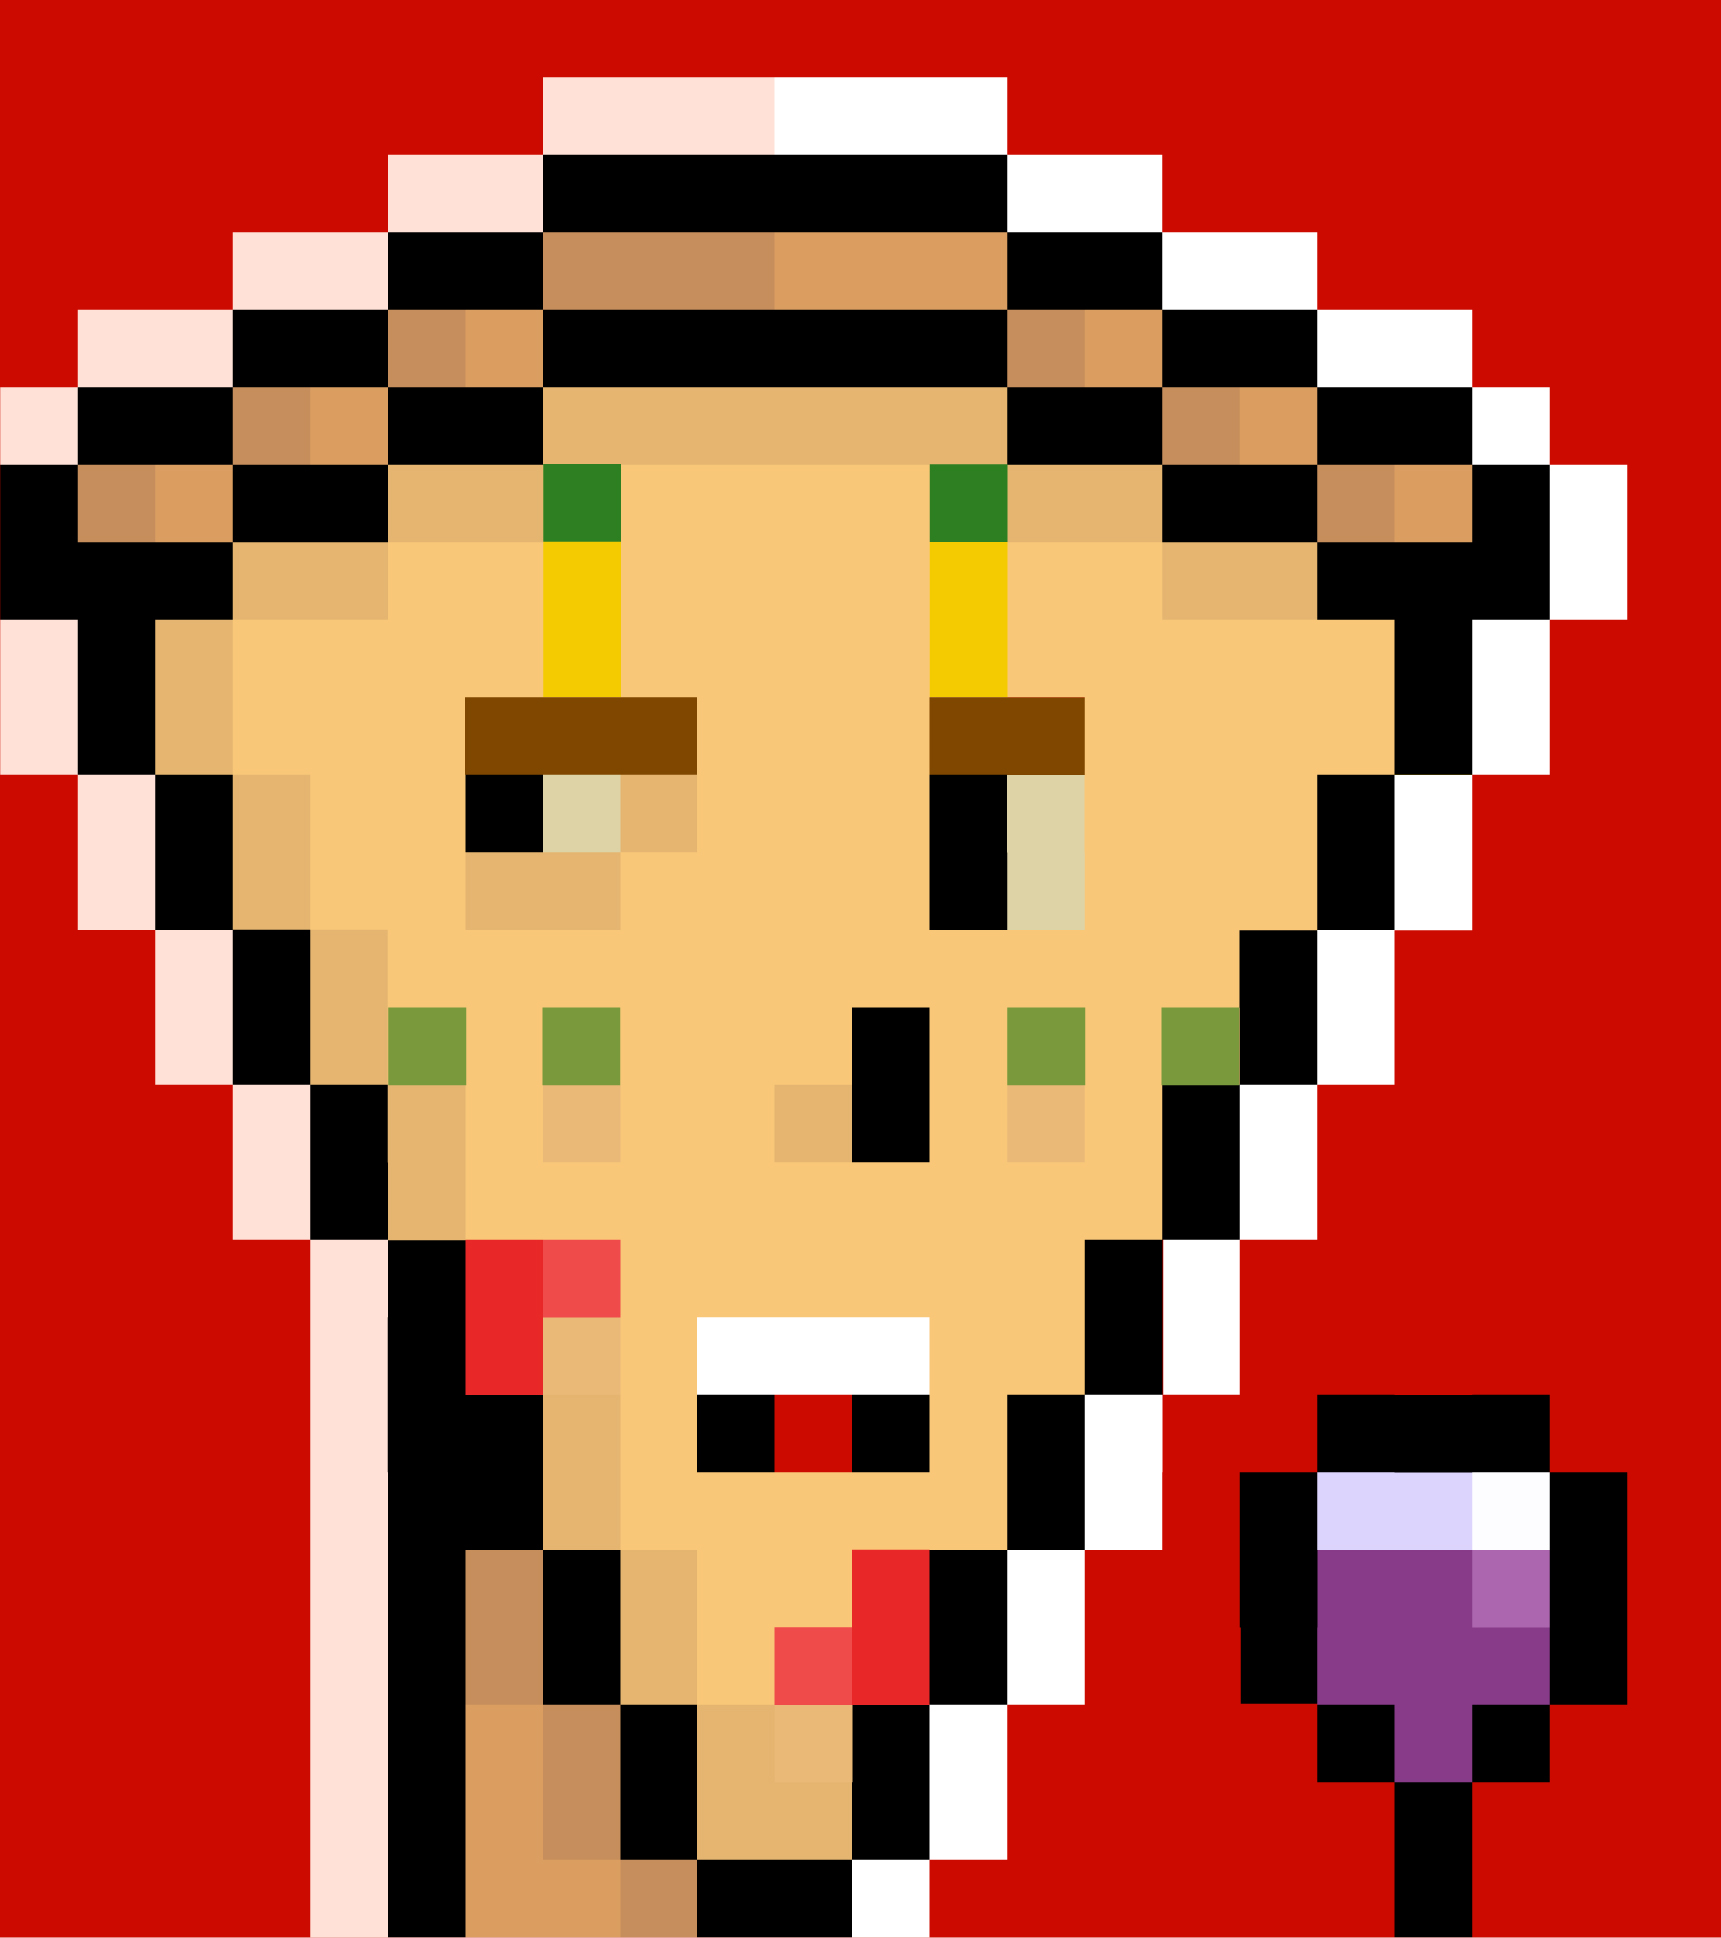
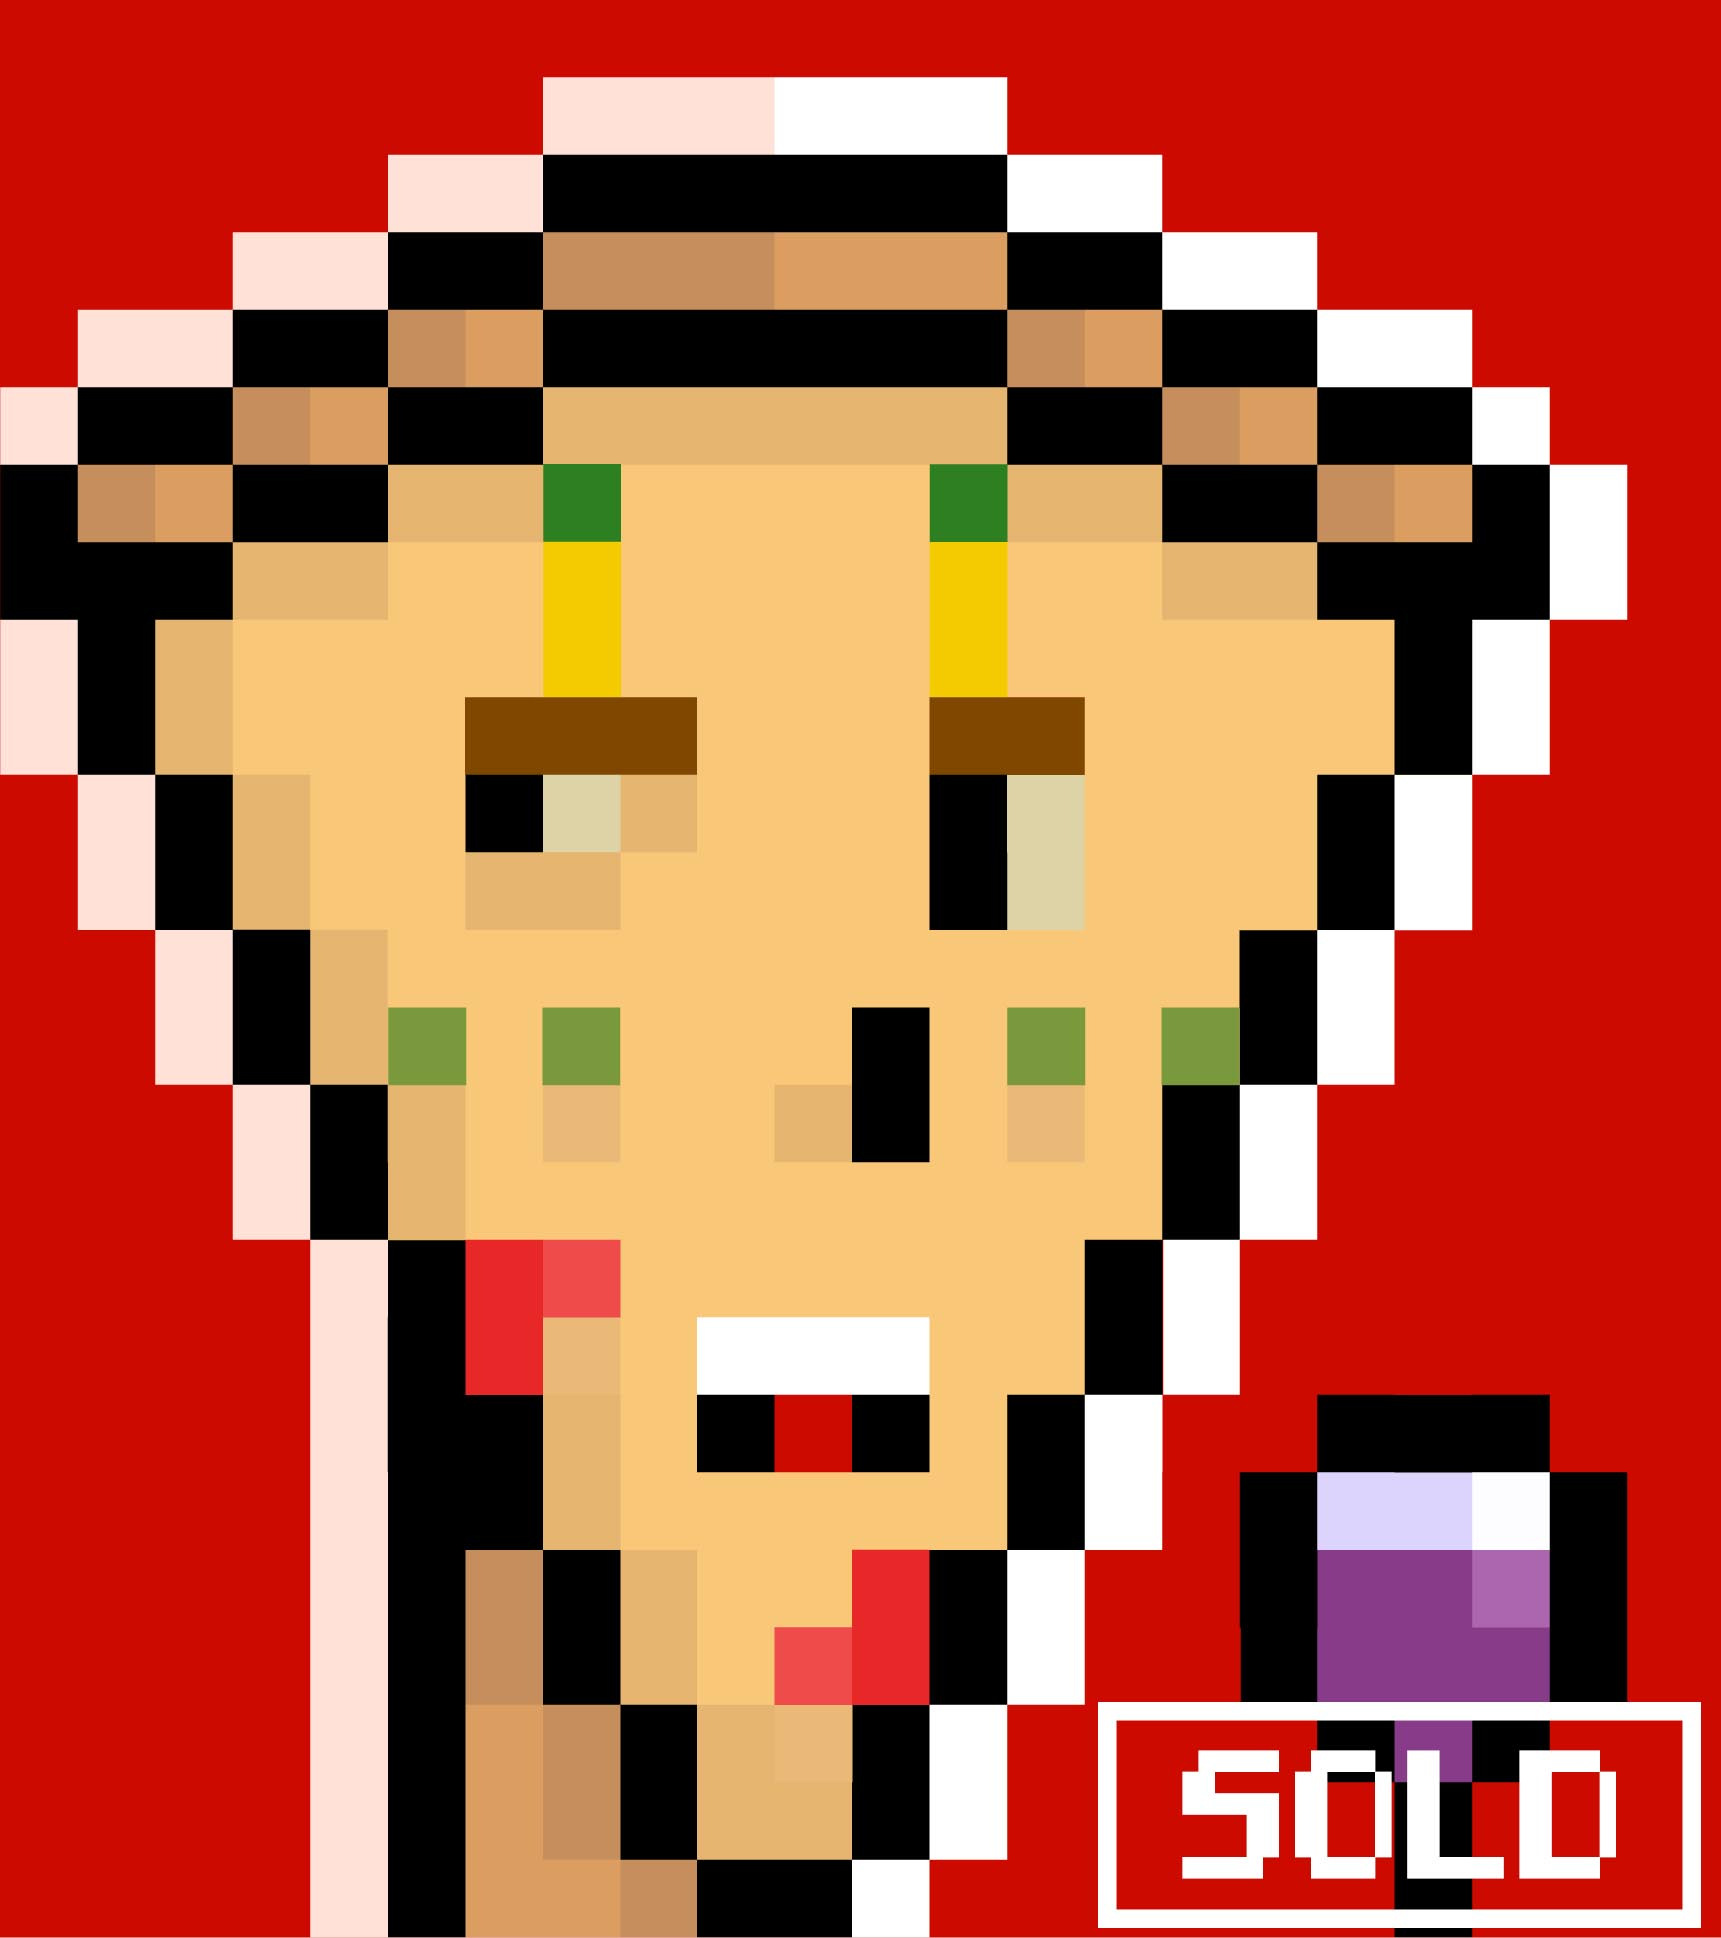
sold

Changed region(s): [[0.5543, 0.8669, 1.0, 1.0], [0.0, 0.9907, 0.154, 1.0]]

diff --git a/pizzapunks.html b/pizzapunks.html
@@ -62,10 +62,10 @@
 					<div class="has-box image-container">
 						<div class="image-container">
 							<img alt="Bootstrap Image Preview" src="img/pps/9.jpg" >
-							<img alt="Bootstrap Image Preview" src="img/pps/4.jpg" >
+							<img alt="Bootstrap Image Preview" src="img/pps/4_4.jpg" >
 							<img alt="Bootstrap Image Preview" src="img/pps/10.jpg" >
-							<img alt="Bootstrap Image Preview" src="img/pps/5.jpg" >
-							<img alt="Bootstrap Image Preview" src="img/pps/1.jpg" >
+							<img alt="Bootstrap Image Preview" src="img/pps/5_5.jpg" >
+							<img alt="Bootstrap Image Preview" src="img/pps/1_1.jpg" >
 					</div>
 				</div>
 				<div class="row">
@@ -87,7 +87,7 @@
 								<div class="card-body has-box ">
 									<div class="image-container">
 										<div class="row">
-											<img alt="Bootstrap Image Preview" src="img/pps/1.jpg">
+											<img id="sold" alt="Bootstrap Image Preview" src="img/pps/1.jpg">
 											<img alt="Bootstrap Image Preview" src="img/pps/2.jpg">
 											<img alt="Bootstrap Image Preview" src="img/pps/3.jpg">
 											<img alt="Bootstrap Image Preview" src="img/pps/4.jpg">
@@ -592,7 +592,7 @@
 				<div class="col-md-2"></div>
 				<div class="col-md-8 has-box">					
 					<h5>Special GIF drops at:</h5>
-						<p> <strong class="text-success">#11</strong> – #22 – #33 - #44 - #55 - #66 - #77 - #88 - #99 - #111 - #122 - #133 - #144 - #155 - #166 - #175</p>
+						<p> <strong class="text-success">#11</strong> – <strong class="text-success">#22</strong> – #33 - #44 - #55 - #66 - #77 - #88 - #99 - #111 - #122 - #133 - #144 - #155 - #166 - #175</p>
 				</div>
 				<div class="col-md-2"></div>
 			</div>
@@ -606,12 +606,12 @@
 						<p>6 different types The Pizza Punks come in various Dough Specialties (types). There are over 6 different dough specialties found within the collection. Some are more common than others. Each dough specialty has its own Pizza Aura. Find your favorite Dough Specialty below!</p>
 						<div class="image-container">
 							<div class="image-container six-line">
-								<img alt="Bootstrap Image Preview" src="img/pps/1.jpg" class="img-fluid">
-								<img alt="Bootstrap Image Preview" src="img/pps/2.jpg" class="img-fluid">
+								<img alt="Bootstrap Image Preview" src="img/pps/1_1.jpg" class="img-fluid">
+								<img alt="Bootstrap Image Preview" src="img/pps/2_2.jpg" class="img-fluid">
 								<img alt="Bootstrap Image Preview" src="img/pps/3.jpg" class="img-fluid">
-								<img alt="Bootstrap Image Preview" src="img/pps/6.jpg" class="img-fluid">
-								<img alt="Bootstrap Image Preview" src="img/pps/8.jpg" class="img-fluid">
-								<img alt="Bootstrap Image Preview" src="img/pps/4.jpg" class="img-fluid">
+								<img alt="Bootstrap Image Preview" src="img/pps/6_6.jpg" class="img-fluid">
+								<img alt="Bootstrap Image Preview" src="img/pps/8_8.jpg" class="img-fluid">
+								<img alt="Bootstrap Image Preview" src="img/pps/4_4.jpg" class="img-fluid">
 						</div>
 					</div>
 					</div>
@@ -632,7 +632,7 @@
 						<p>Some Pizza Punks invested in their style. This can be shirts, glasses, caps, head bands, necklaces etc. If you find a legendary clothing, don’t hesitate and buy as quick as possible. It will be flipped for more!</p>
 						<div class="image-container">
 							<div class="image-container">
-								<img alt="Bootstrap Image Preview 20" src="img/pps/20.jpg" class="img-fluid">
+								<img alt="Bootstrap Image Preview 20" src="img/pps/20_20.jpg" class="img-fluid">
 								<img alt="Bootstrap Image Preview 21" src="img/pps/21.jpg" class="img-fluid">
 								<img alt="Bootstrap Image Preview 23" src="img/pps/23.jpg" class="img-fluid">
 						</div>
@@ -644,7 +644,7 @@
 						<div class="image-container">
 							<div class="image-container">
 								<img alt="Bootstrap Image Preview" src="img/pps/10.jpg" class="img-fluid">
-								<img alt="Bootstrap Image Preview" src="img/pps/5.jpg" class="img-fluid">
+								<img alt="Bootstrap Image Preview" src="img/pps/5_5.jpg" class="img-fluid">
 								<img alt="Bootstrap Image Preview 14" src="img/pps/14.jpg" class="img-fluid">
 							</div>
 						</div>

diff --git a/css/veggiepunks.css b/css/veggiepunks.css
@@ -17,6 +17,12 @@ html, body, pre, code, kbd, samp, a{
   justify-content: space-between;
 }
 
+#sold {
+  background: url(img/sold.png) no-repeat center;
+  z-index: 2;
+  background-blend-mode: multiply;
+}
+
 .image-container {
   display: flex;
   justify-content: center;
@@ -27,6 +33,7 @@ html, body, pre, code, kbd, samp, a{
 .image-container img {
   padding: 5px;
   width: 20%;
+  z-index: 1;
 }
 
 .image-container .six-line img {
